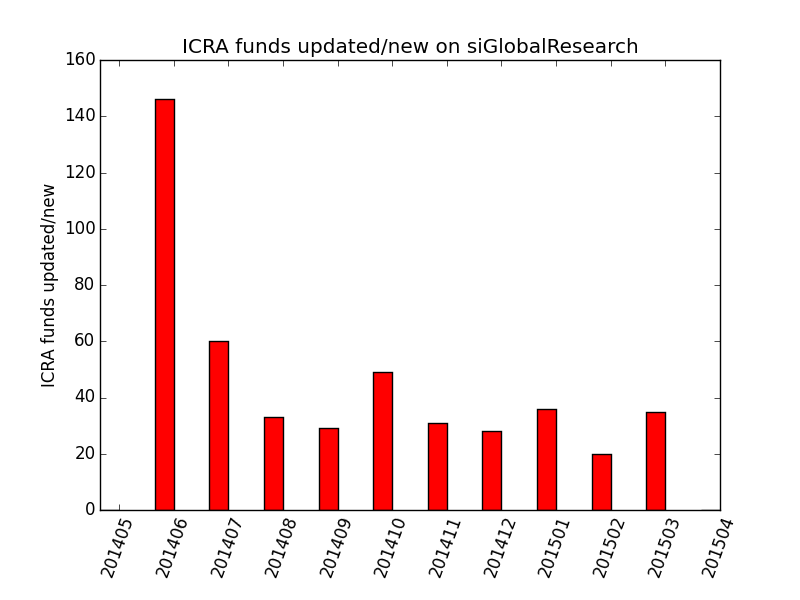
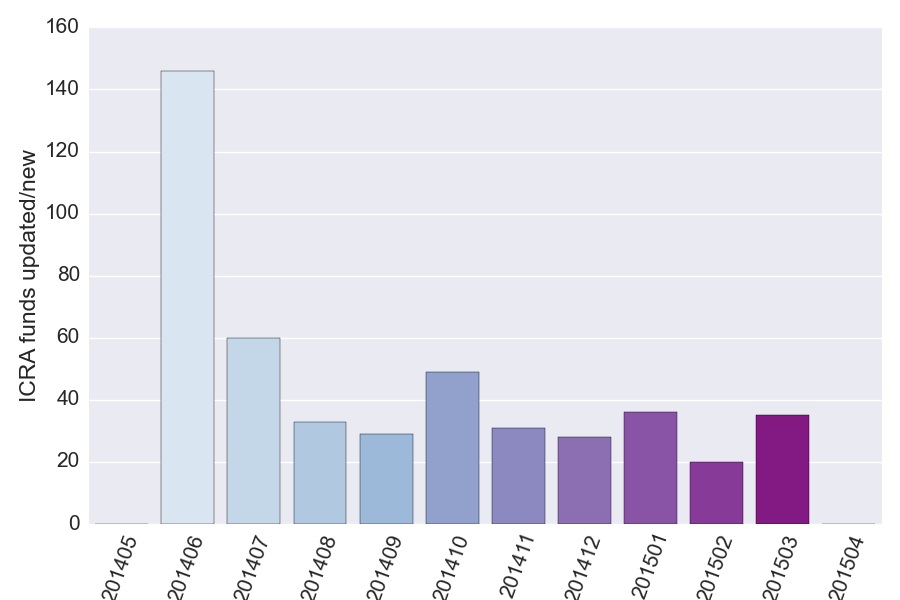
Added CBSO graph/ Changed bar graphs to Seaborn

diff --git a/templates/CBSO.html b/templates/CBSO.html
@@ -46,6 +46,8 @@
 
 	<img src = "/static/CBSO.png" width="500">
 
+    <br><br>
+
 	<form action="/generateCBSOGraph" method=post class=add-entry>
 
     <p>

diff --git a/SQLHelper.py b/SQLHelper.py
@@ -10,6 +10,9 @@ import sqlite3
 import collections
 from operator import itemgetter
 import querpy
+import seaborn as sns
+import pandas as pd
+import os
 
 cnxn = po.connect('DRIVER={SQL Server Native Client 10.0};SERVER=GLDB;DATABASE=siVendors;Trusted_Connection=yes')
 cursor = cnxn.cursor()
@@ -31,12 +34,9 @@ class graph:
 		self.N = N
 		self.ind = np.arange(N)
 		self.fig, self.ax = plt.subplots()
-		self.ax.set_ylabel(ylable)
-		self.ax.set_title(title)
-		self.ax.set_xticks(self.ind+self.width)
-		self.ax.set_xticklabels( x )
-		plt.xticks(rotation=70)
 		plt.gcf().subplots_adjust(bottom=0.15)
+		sns.set(font_scale=1.5)
+		os.remove(destination+".png")
 
 class barGraph(graph):
 
@@ -46,8 +46,11 @@ class barGraph(graph):
 		graph.__init__(self,x,y,title,ylable,destination,N,legend)
 
 	def generateGraph(self):
+
 		print self.x,self.y,self.title,self.ylable,self.destination,self.N
-		self.ax.bar(self.ind, self.y, self.width, color='r')
+		d = {'PeriodID': self.x, 'Asset': self.y}
+		df = pd.DataFrame(data=d)
+		sns.factorplot("PeriodID","Asset", data=df, palette="BuPu", size=6, aspect=1.5, kind="bar").set_xticklabels(rotation=70).set_titles(self.title).set_ylabels(self.ylable)
 		plt.savefig(self.destination)
 		plt.clf()
 
@@ -57,6 +60,11 @@ class stackedBarGraph(graph):
 
 	def __init__(self,x,y,title,ylable,destination,N=9,legend=None):
 		graph.__init__(self,x,y,title,ylable,destination,N,legend)
+		self.ax.set_ylabel(ylable)
+		self.ax.set_title(title)
+		self.ax.set_xticks(self.ind+self.width)
+		self.ax.set_xticklabels( x )
+		plt.xticks(rotation=70)
 
 
 	def generateGraph(self):
@@ -351,18 +359,37 @@ def getManagers():
 
 
 def generateCBSOGraph(type,value, variables):
+
+	cnxn = po.connect('DRIVER={SQL Server Native Client 10.0};SERVER=GLDB;Trusted_Connection=yes')
+	cursor = cnxn.cursor()
+
 	print type,value,variables
 	newQuery = querpy.Query()
 	newQuery.f += "Vendors.CBSO.OriginationMaster"
 	newQuery.g += "periodID"
 	newQuery.w += "{theName} = '{theValue}'".format(theName=type, theValue=value)
 
+	mon = []
+	coun = []
+
 	for variable in variables:
 		newQuery.s.clear()
-		newQuery.s += "periodid, SUM({type})".format(type = variable)
+		newQuery.s += "periodid periodID, SUM({type}) value".format(type = variable)
 
 		print newQuery
+		cursor.execute(str(newQuery))
+		result = cursor.fetchall()
+		for row in result:
+			mon.append(row.periodID)
+			if row.value == None:
+				row.value = 0
+			coun.append(float(row.value)/1000000000)
 
+	coun = coun[-24:]
+	mon = mon[-24:]
+
+	CBSOGraph = barGraph(mon,coun,'CBSO {type} for {agg}'.format(type = variable, agg = value),'{type}'.format(type = variable),"./Static/CBSO",len(coun))
+	CBSOGraph.generateGraph()
 
 	#IE processing
 
